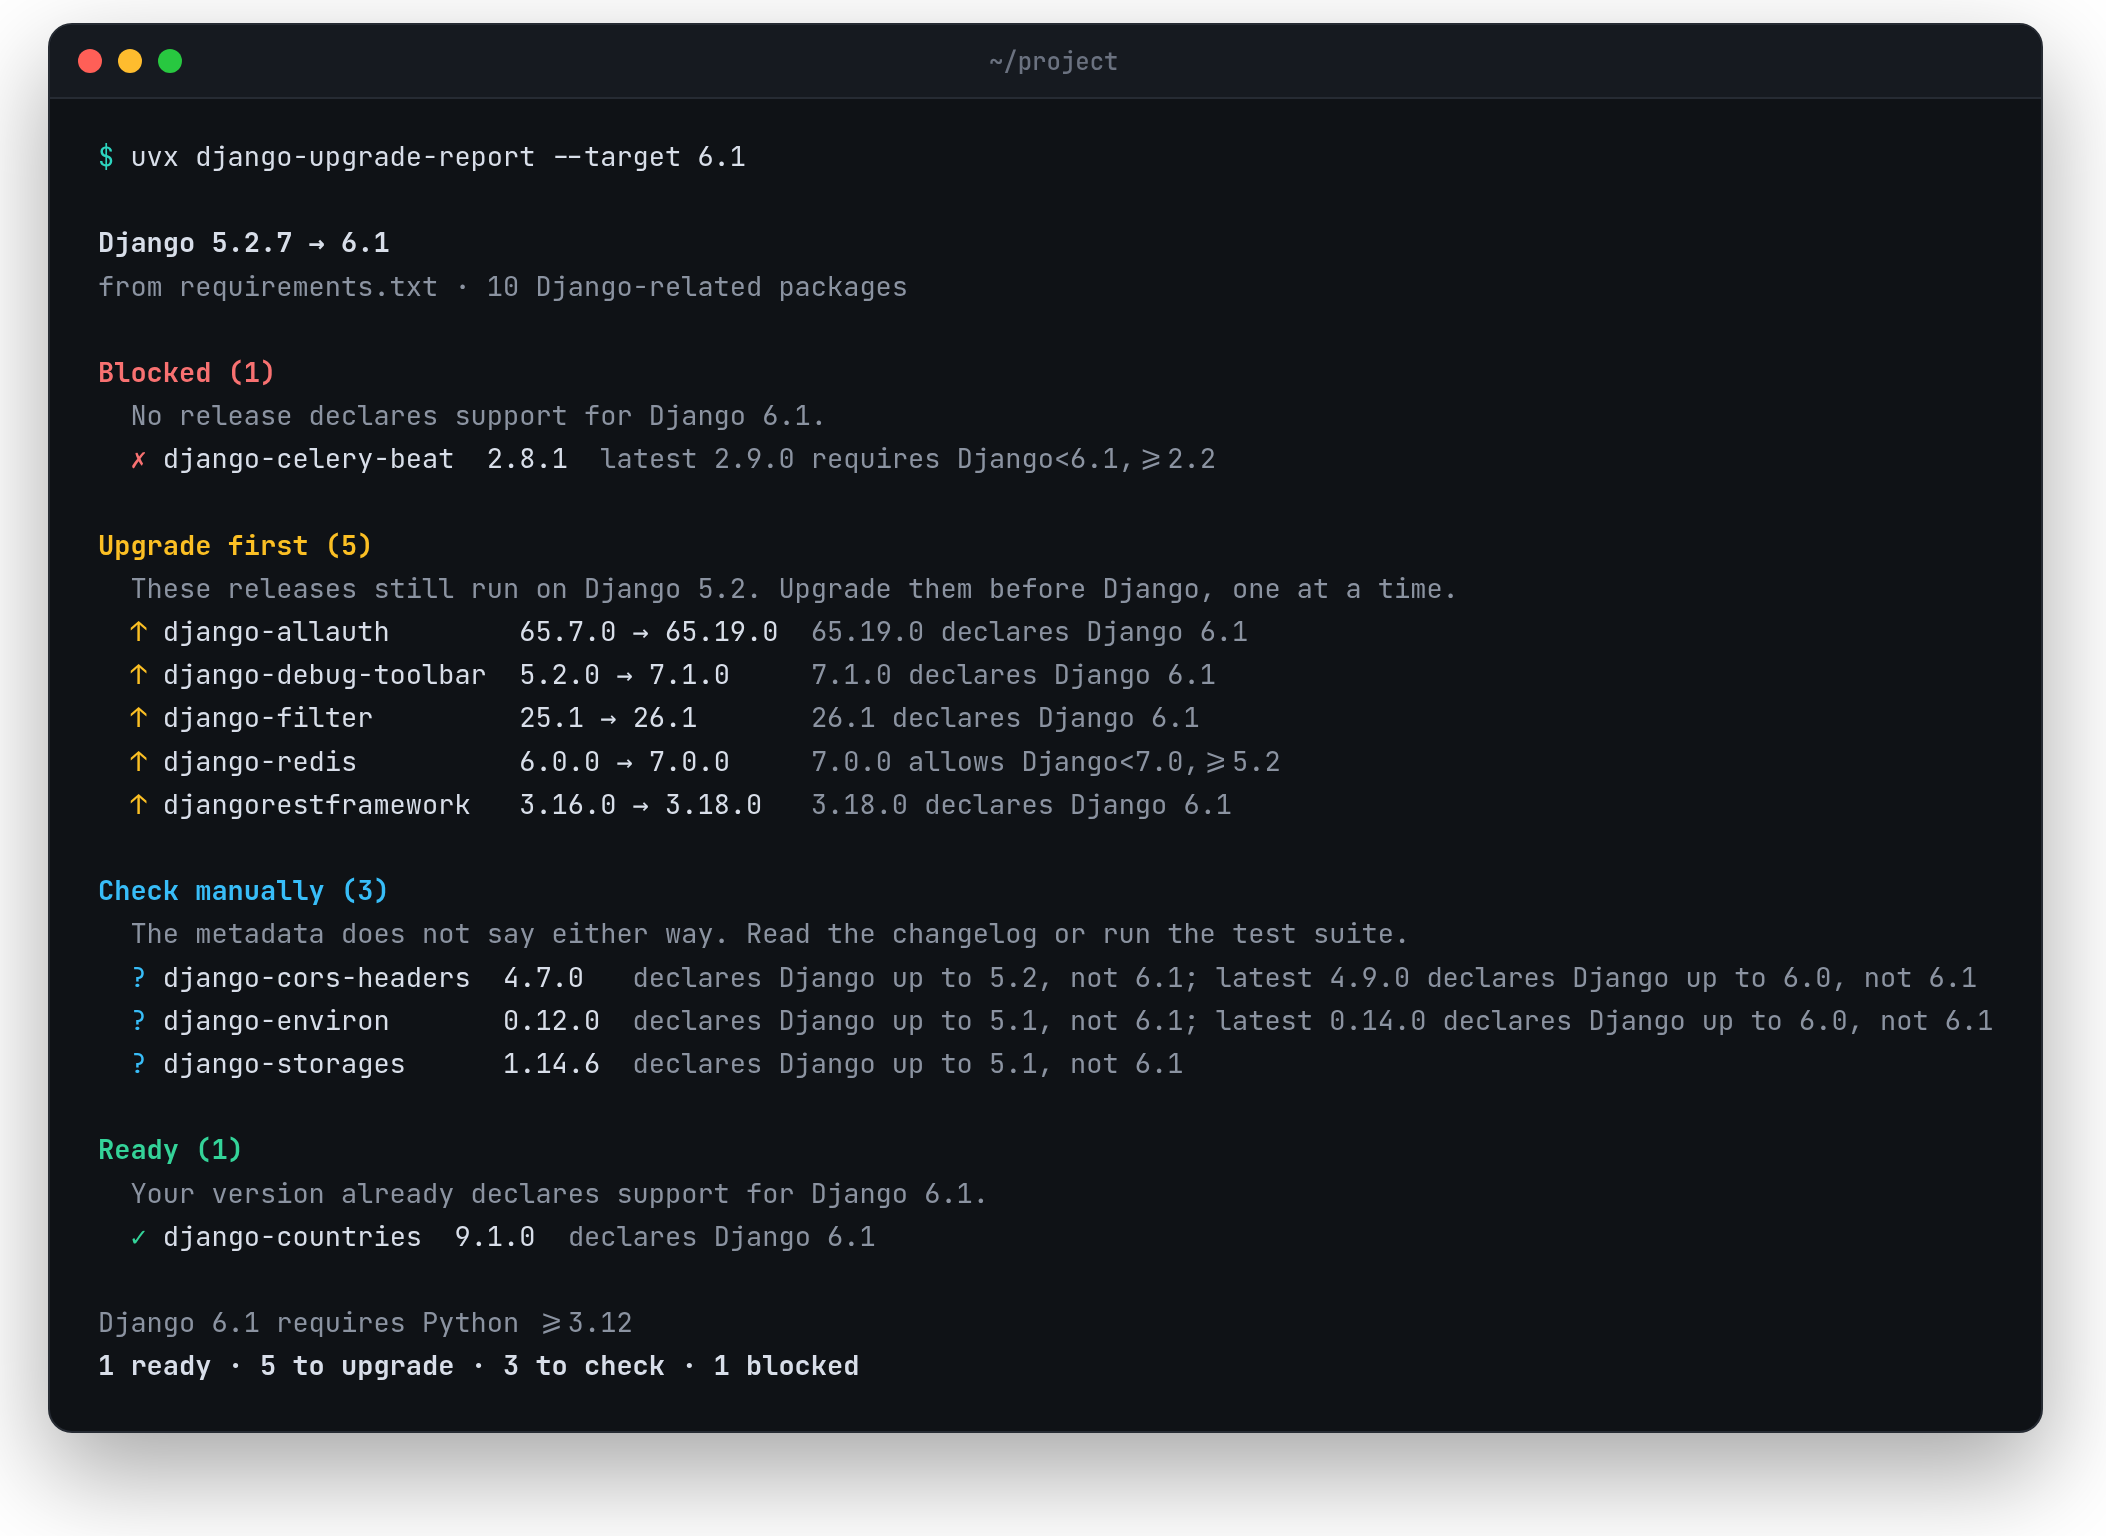
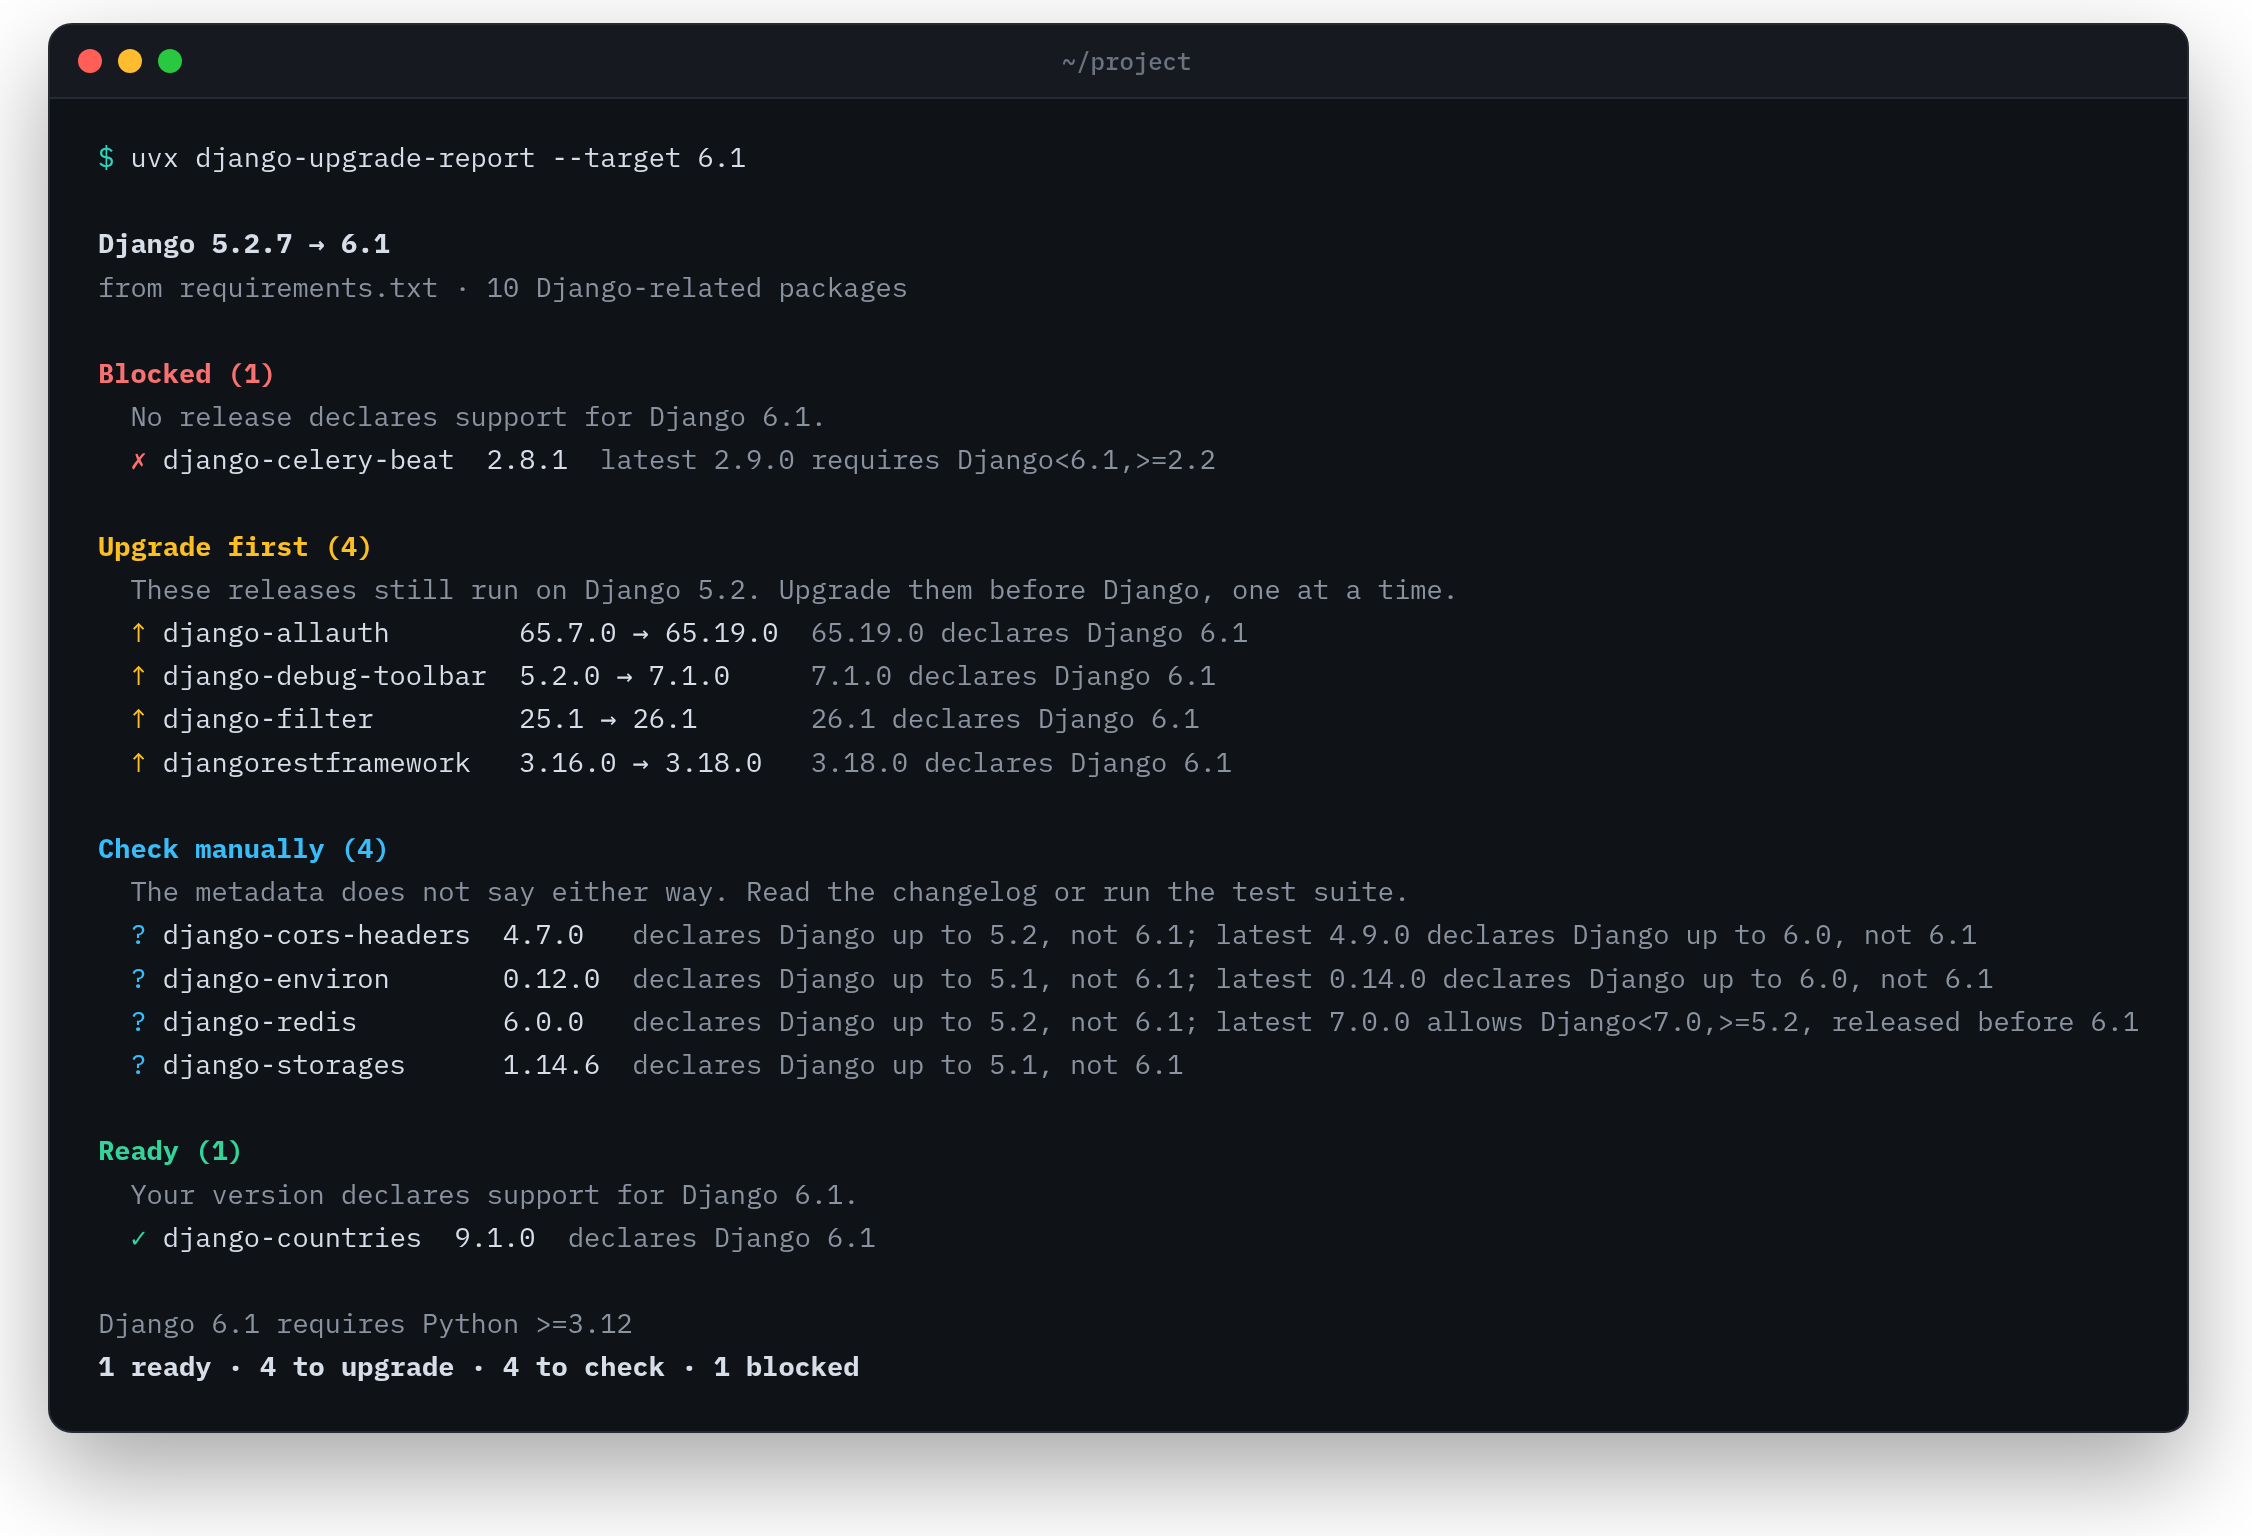
Run the Windows action test's setup step in bash, refresh the terminal image
The shell: bash line got lost while merging the Dependabot update, so
the step ran in PowerShell and failed before the action started. The
README terminal screenshot shows the output of the corrected engine
(django-redis 7.0.0 is now a manual check), in a font without the
>= ligature.

diff --git a/README.md b/README.md
@@ -77,7 +77,7 @@ django-upgrade-report --target 6.1
 ```
 
 <p align="center">
-  <img src="docs/assets/terminal.png" alt="Terminal output for an upgrade from Django 5.2.7 to 6.1: django-celery-beat is blocked, five packages can be upgraded first, three need a manual check, one is ready" width="820">
+  <img src="docs/assets/terminal.png" alt="Terminal output for an upgrade from Django 5.2.7 to 6.1: django-celery-beat is blocked, four packages can be upgraded first, four need a manual check, one is ready" width="820">
 </p>
 
 ## What the statuses mean
